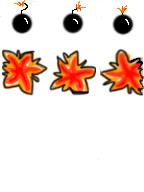
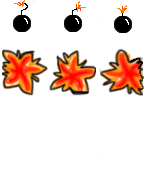
vers. 1.2 * more texture change

Changed region(s): [[0.4167, 0.0625, 0.5833, 0.1875], [0.0556, 0.0625, 0.25, 0.1875], [0.7778, 0.0625, 0.9444, 0.1875]]

diff --git a/MultiThreadSDL/main.cpp b/MultiThreadSDL/main.cpp
@@ -51,22 +51,12 @@ int main(int argc, char* argv[])
 	renderTarget = SDL_CreateRenderer(window, -1, SDL_RENDERER_ACCELERATED | SDL_RENDERER_PRESENTVSYNC);
 
 	Player player1(renderTarget, "playerNew1.png", 20, 20, 3, 4);
-	Player player2(renderTarget, "player2.png", 600, 400, 3, 4);
+	Player player2(renderTarget, "playerNew2.png", 600, 400, 3, 4);
 
 	Bomb b(renderTarget, "bombNew2.png", -200, 200, 3, 4);
 	Bomb b2(renderTarget, "bombNew2.png", -200, 200, 3, 4);
 
 	Zombie zombie;
-	/*
-	Zombie zombies[6];
-
-	for (int i = 0; i < 5; i++)
-	{
-		zombies[i] = zombie;
-		zombies[i].SetTexture(renderTarget, "zombie2.png");
-	}
-	*/
-
 	std::vector <Zombie> zombies;
 
 	for (int i = 0; i < 28; i++)

diff --git a/MultiThreadSDL/Bomb.cpp b/MultiThreadSDL/Bomb.cpp
@@ -110,7 +110,7 @@ bool Bomb::getExplosion() { return explosion; }
 
 bool Bomb::GetActive()
 {
-	return isActive;
+	return isActive	;
 }
 
 
